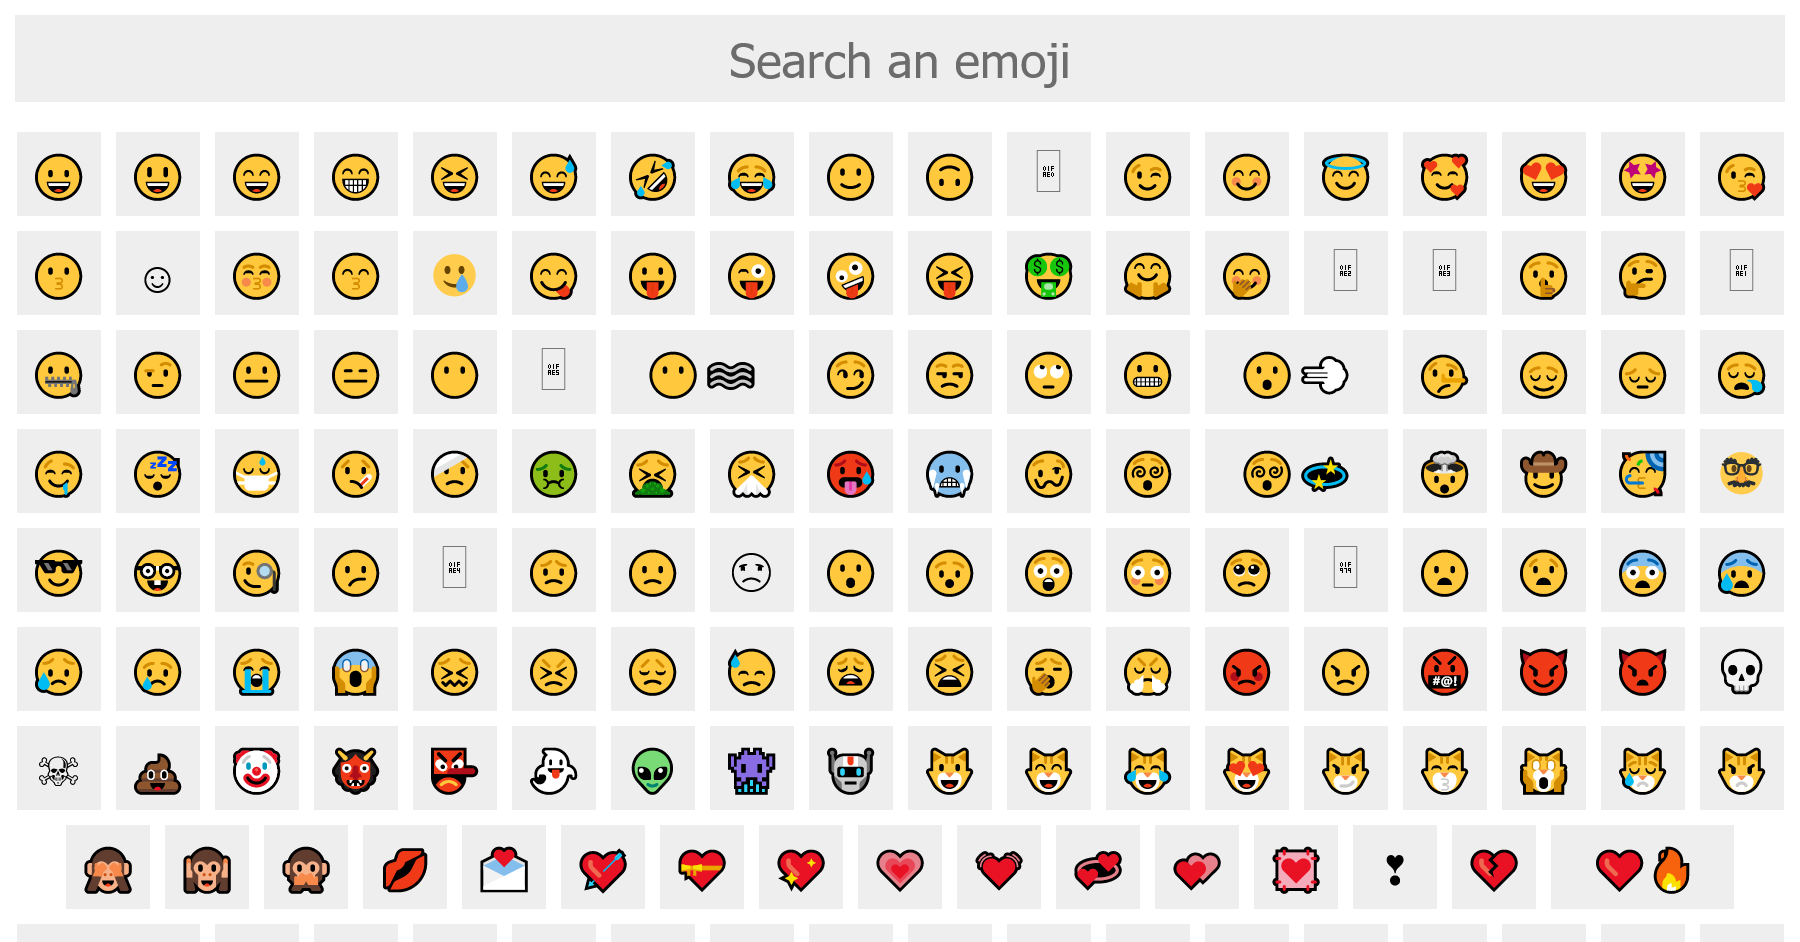
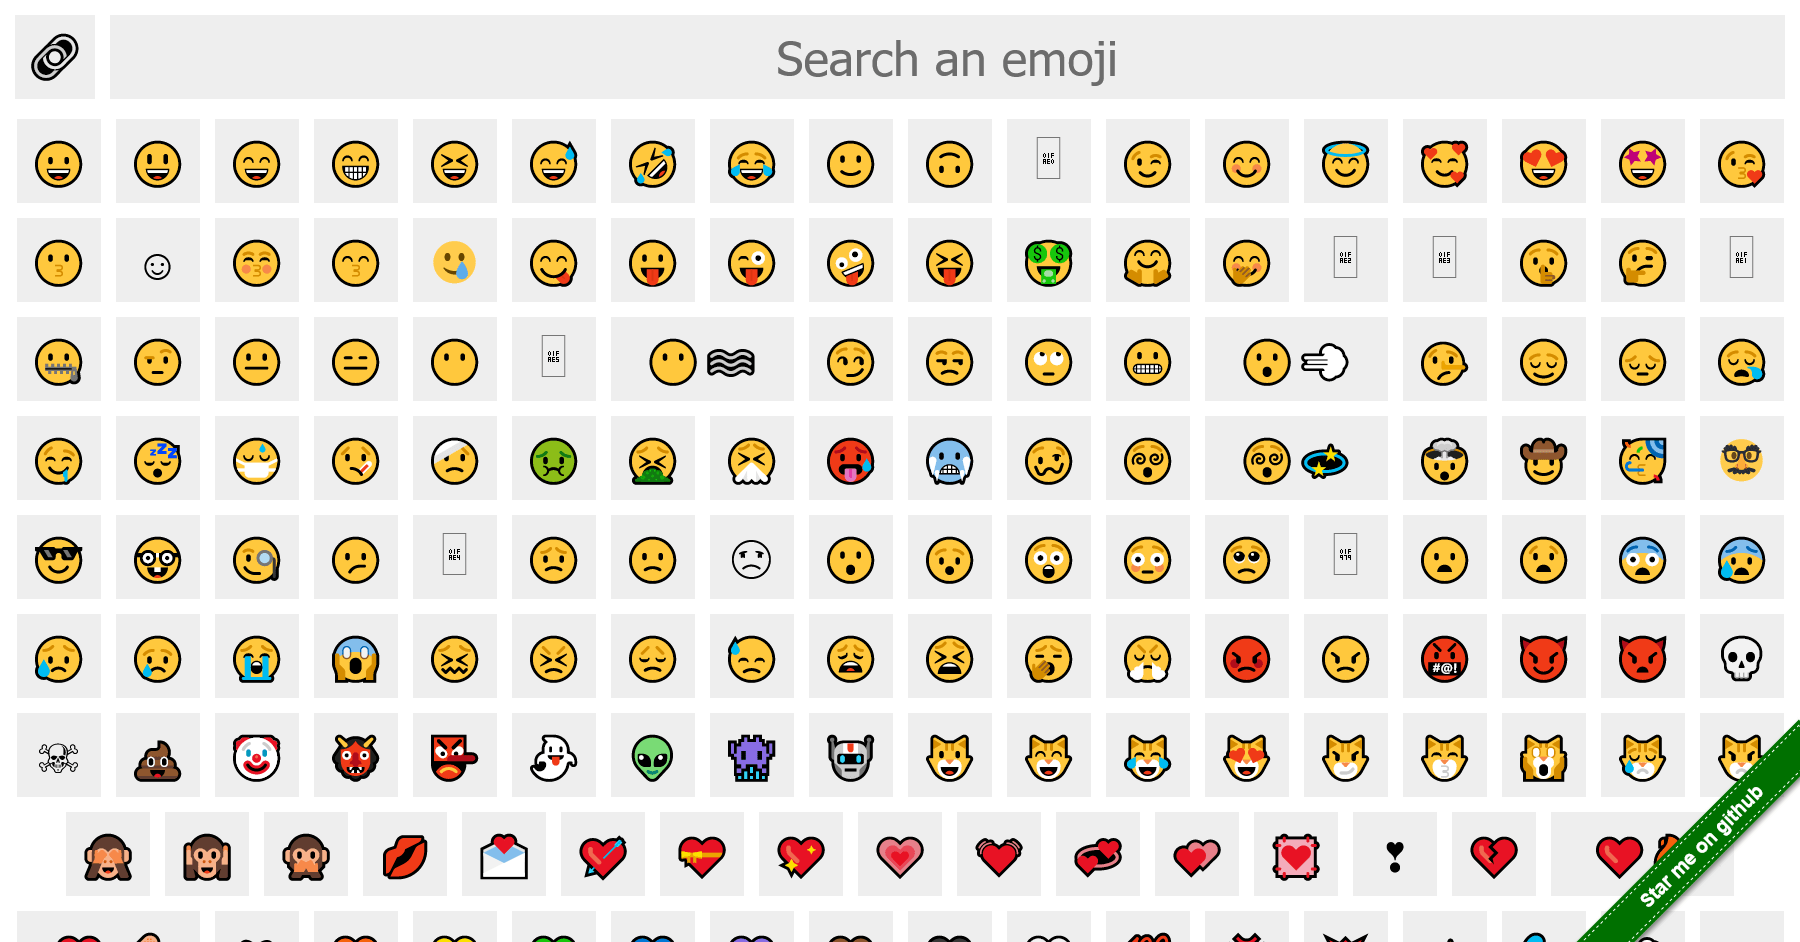
Improve display + add save link

diff --git a/src/routes/index.svelte b/src/routes/index.svelte
@@ -1,11 +1,14 @@
 <script>
 	import { emojis } from '$lib/data';
 	import ForkMe from '$lib/StarMe.svelte';
+	import { page } from '$app/stores';
+	import { onMount } from 'svelte';
+	import { browser } from '$app/env';
 
-	let search = '';
-	let filteredEmojis = emojis;
+	export let search = '';
+	let filteredEmojis;
 
-	let copiedEmoji;
+	let copiedContent;
 	let timeoutId;
 
 	$: searchRe = search.length > 2 ? new RegExp(`(${search})`, 'gi') : undefined;
@@ -17,50 +20,85 @@
 		);
 	}
 
-	function copy(emoji) {
+	function copy(type, emoji) {
 		if (timeoutId) clearTimeout(timeoutId);
 		navigator.clipboard.writeText(emoji);
-		copiedEmoji = emoji;
-		timeoutId = setTimeout(() => (copiedEmoji = undefined), 1000);
+		copiedContent = type === 'emoji' ? 'emoji ' + emoji : 'url';
+		timeoutId = setTimeout(() => (copiedContent = undefined), 2000);
 	}
+
+	onMount(() => {
+		if (browser) search = $page.url.searchParams.get('i');
+	});
 </script>
 
-{#if copiedEmoji}
+{#if copiedContent}
 	<div class="toast">
-		emoji {copiedEmoji} copied!
+		{copiedContent} copied!
 	</div>
 {/if}
 
 <div class="list">
-	<input bind:value={search} placeholder="Search an emoji" aria-label="Search an emoji"/>
-	{#each filteredEmojis as emoji}
-		<button class="block" class:double={emoji.width > 165} on:click={() => copy(emoji.emoji)}>
-			{emoji.emoji}
-		</button>
-	{/each}
+	<div class="search-bar">
+		<a
+			class="block"
+			href="?i={search}"
+			on:click={() => copy('url', `${$page.url.origin}/?i=${search}`)}>🔗</a
+		>
+		<input bind:value={search} placeholder="Search an emoji" aria-label="Search an emoji" />
+	</div>
+	<div class="icons">
+		{#each filteredEmojis as emoji (emoji)}
+			<button
+				class="block"
+				class:double={emoji.width > 165}
+				on:click={() => copy('emoji', emoji.emoji)}
+			>
+				{emoji.emoji}
+			</button>
+		{/each}
+	</div>
 </div>
 
 <ForkMe />
 
 <style>
+	.search-bar {
+		display: flex;
+		width: 100%;
+		gap: var(--gap);
+		padding: var(--gap);
+		box-sizing: border-box;
+		position: fixed;
+		background-color: white;
+	}
+	a {
+		text-decoration: none;
+	}
+	a:focus-visible {
+		outline: 2px solid blue;
+	}
 	input {
 		width: 100%;
-		margin: var(--gap);
 		height: var(--size);
 		background-color: var(--color);
 		border: none;
 		font-size: 32px;
 		text-align: center;
+		padding: 0;
 	}
 	.list {
+		--gap: 10px;
+		--size: 56px;
+		--color: #eeeeee;
+	}
+	.icons {
 		display: flex;
 		flex-wrap: wrap;
 		justify-content: center;
 		gap: var(--gap);
-		margin-bottom: var(--gap);
-		--gap: 10px;
-		--size: 56px;
-		--color: #eeeeee;
+		padding: calc(var(--size) + 2 * var(--gap) + 3px) 0 var(--gap);
+		margin: 0 var(--gap);
 	}
 	.block {
 		width: var(--size);
@@ -85,5 +123,6 @@
 		font-size: 24px;
 		background-color: black;
 		color: white;
+		width: max-content;
 	}
 </style>

diff --git a/src/lib/StarMe.svelte b/src/lib/StarMe.svelte
@@ -1,4 +1,6 @@
-<a target="_blank" href="https://github.com/Ennoriel/unicode-emoji-search-engine"> Star me on github </a>
+<a target="_blank" href="https://github.com/Ennoriel/unicode-emoji-search-engine">
+	Star me on github
+</a>
 
 <style>
 	a {
